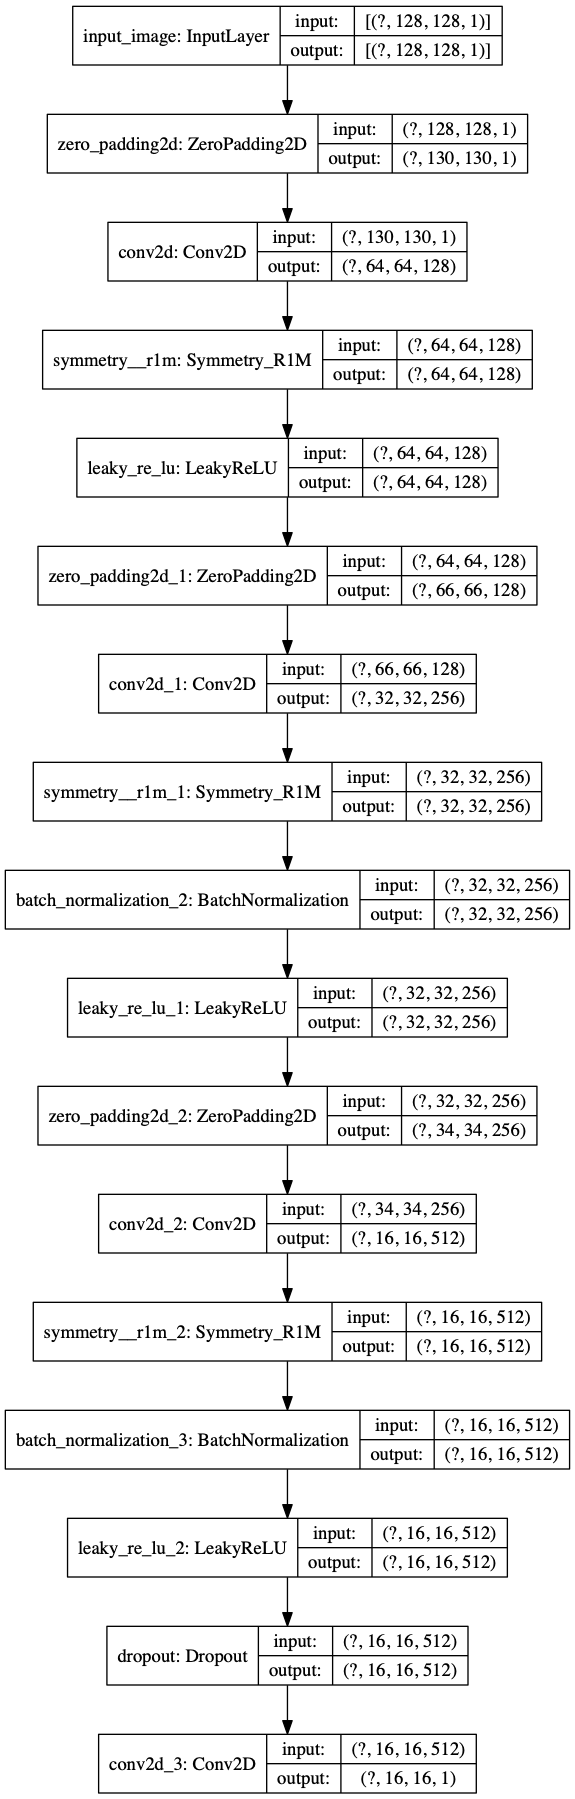
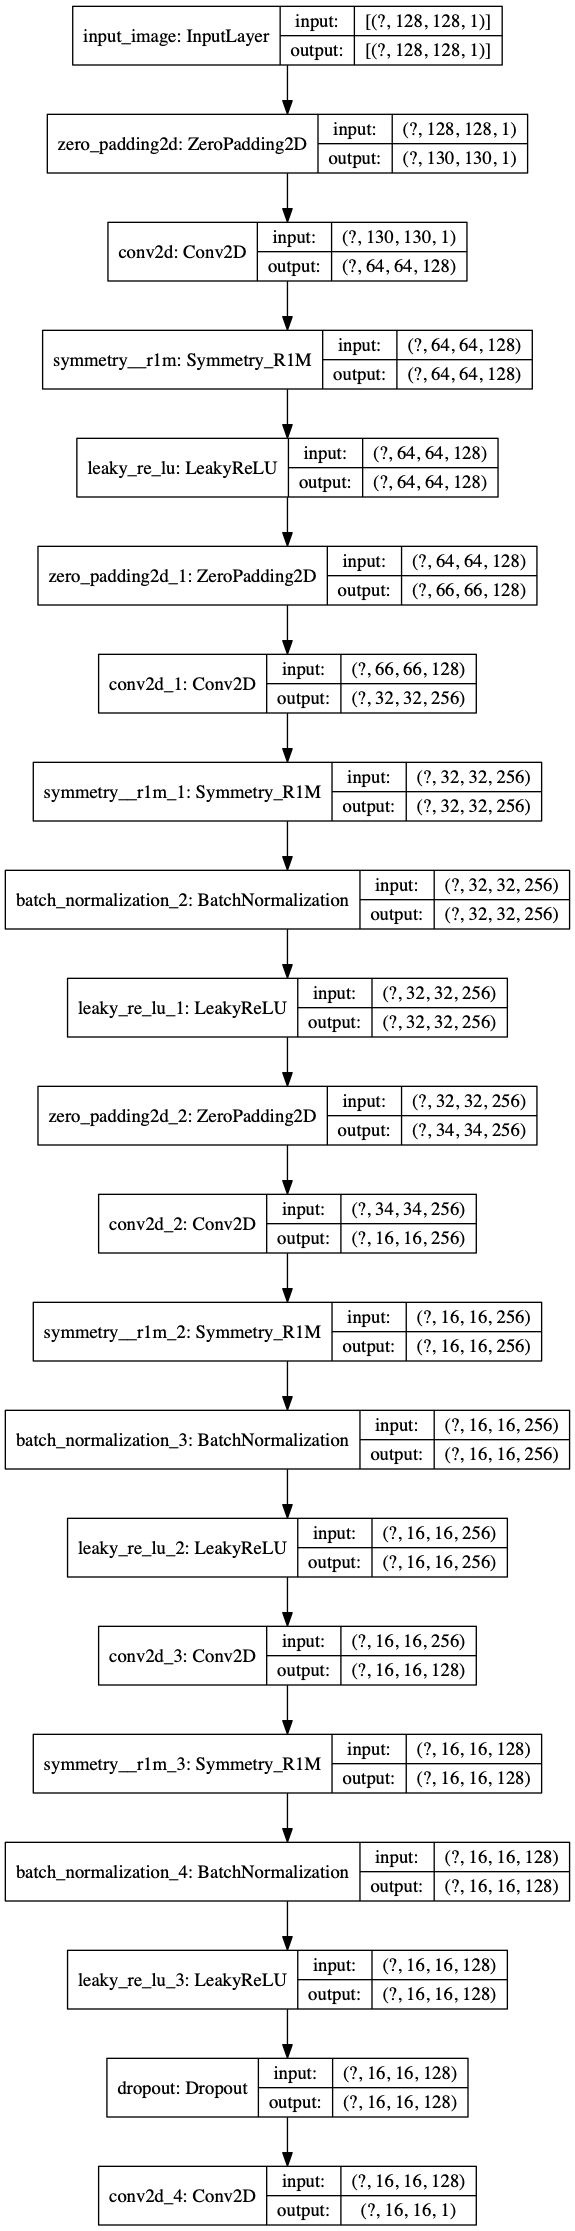
update epoch

Changed region(s): [[0.0, 0.0, 1.0, 1.0]]

diff --git a/model.py b/model.py
@@ -302,17 +302,18 @@ def make_discriminator_model(len_low_size=16, scale=4):
     batchnorm = tf.keras.layers.BatchNormalization()(sym)
     leaky_relu = tf.keras.layers.LeakyReLU(0.2)(batchnorm)
 
-    '''zero_pad = tf.keras.layers.ZeroPadding2D()(leaky_relu)
-    conv = tf.keras.layers.Conv2D(256, 4, strides=2, padding='valid', use_bias=False)(zero_pad)
-    batchnorm = tf.keras.layers.BatchNormalization()(conv)
-    leaky_relu = tf.keras.layers.LeakyReLU(0.2)(batchnorm)'''
-
     zero_pad = tf.keras.layers.ZeroPadding2D()(leaky_relu)
-    conv = tf.keras.layers.Conv2D(512, 4, strides=2, padding='valid', use_bias=False)(zero_pad)
+    conv = tf.keras.layers.Conv2D(256, 4, strides=2, padding='valid', use_bias=False)(zero_pad)
     sym = Symmetry_R1M()(conv)
     batchnorm = tf.keras.layers.BatchNormalization()(sym)
     leaky_relu = tf.keras.layers.LeakyReLU(0.2)(batchnorm)
-    leaky_relu = tf.keras.layers.Dropout(0.2)(leaky_relu)
+
+    #zero_pad = tf.keras.layers.ZeroPadding2D()(leaky_relu)
+    conv = tf.keras.layers.Conv2D(128, 3, strides=1, padding='same', use_bias=False)(leaky_relu)
+    sym = Symmetry_R1M()(conv)
+    batchnorm = tf.keras.layers.BatchNormalization()(sym)
+    leaky_relu = tf.keras.layers.LeakyReLU(0.2)(batchnorm)
+    leaky_relu = tf.keras.layers.Dropout(0.1)(leaky_relu)
 
     last = tf.keras.layers.Conv2D(1, 1, strides=1, padding='valid', use_bias=False, activation='sigmoid')(leaky_relu)
     #last = tf.keras.layers.Flatten()(last)
@@ -436,7 +437,7 @@ def train_step_generator(Gen, Dis, imgl, imgr, loss_filter, loss_weights, opts, 
         train_logs[1](gen_loss_low_mse)
         #if(epoch_flag):
         #disc_generated_output = Dis([img_l_h, fake_hic_h], training=False)
-        disc_generated_output = Dis(tf.math.log1p(100*fake_hic_h), training=False)
+        disc_generated_output = Dis(tf.math.log1p(1000*fake_hic_h), training=False)
         gen_high_v = []
         gen_high_v += Gen.get_layer('rec_high').trainable_variables
         gen_high_v += Gen.get_layer('conv1_1').trainable_variables
@@ -453,7 +454,7 @@ def train_step_generator(Gen, Dis, imgl, imgr, loss_filter, loss_weights, opts, 
         gen_high_v += Gen.get_layer('out_high').trainable_variables
         gen_loss_high_0 = generator_bce_loss(disc_generated_output) 
         gen_loss_high_1 = generator_mse_loss(fake_hic_h, imgr_filter)
-        gen_loss_high_2 = generator_ssim_loss(tf.math.log1p(100*fake_hic_h), tf.math.log1p(100*imgr_filter))
+        gen_loss_high_2 = generator_ssim_loss(tf.math.log1p(1000*fake_hic_h), tf.math.log1p(1000*imgr_filter))
         #gen_loss_high_2 = generator_ssim_loss(fake_hic_h, imgr_filter)
         gen_loss_high = gen_loss_high_0*loss_weights[0]+ gen_loss_high_1*loss_weights[1] + gen_loss_high_2*loss_weights[2]
         gradients_of_generator_high = gen_tape_high.gradient(gen_loss_high, gen_high_v)
@@ -473,9 +474,9 @@ def train_step_discriminator(Gen, Dis, imgl, imgr, loss_filter, opts, train_logs
         mfilter_high = tf.expand_dims(loss_filter[1], axis=0)
         mfilter_high = tf.expand_dims(mfilter_high, axis=-1)
         mfilter_high = tf.cast(mfilter_high, tf.float32)
-        fake_hic_h = tf.math.log1p(100*tf.multiply(fake_hic_h, mfilter_high))
+        fake_hic_h = tf.math.log1p(1000*tf.multiply(fake_hic_h, mfilter_high))
         #img_l_h = tf.multiply(img_l_h, mfilter_high)
-        imgr_filter = tf.math.log1p(100*tf.multiply(imgr, mfilter_high))
+        imgr_filter = tf.math.log1p(1000*tf.multiply(imgr, mfilter_high))
         #disc_generated_output = Dis([img_l_h, fake_hic_h], training=True)
         #disc_real_output = Dis([img_l_h, imgr_filter], training=True)
         disc_generated_output = Dis(fake_hic_h, training=True)
@@ -548,7 +549,7 @@ def train(gen, dis, dataset, epochs, len_low_size, scale, test_dataset=None):
             if(epoch<=2000):
                 loss_weights = [0.0, 10.0, 10.0]
             else:
-                loss_weights = [0.10, 10.0, 10.0]
+                loss_weights = [10.0, 10.0, 0.0]
 
             #if(epoch<450 or (epoch>=1050 and epoch%150<40)):
             if(epoch<1000 or epoch>=2000):
@@ -557,7 +558,7 @@ def train(gen, dis, dataset, epochs, len_low_size, scale, test_dataset=None):
                                     [loss_filter_low, loss_filter_high], loss_weights,
                                     opts, logs)
             #if(epoch%150>=40 or (epoch>=450 and epoch<1050)):
-            if(epoch>=1000):
+            if(epoch>=0):
                 train_step_discriminator(gen, dis, 
                                 tf.dtypes.cast(low_m, tf.float32), tf.dtypes.cast(high_m, tf.float32),
                                 [loss_filter_low, loss_filter_high],
@@ -575,12 +576,12 @@ def train(gen, dis, dataset, epochs, len_low_size, scale, test_dataset=None):
             tf.summary.scalar('loss_gen_high_disssim', generator_log_ssim_high.result(), step=epoch)
             tf.summary.scalar('loss_gen_high_bce', generator_log_bce_high.result(), step=epoch)
             mpy = demo_pred_low.numpy()
-            m = np.log1p(100*np.squeeze(mpy[:,:,:,0]))
+            m = np.log1p(1000*np.squeeze(mpy[:,:,:,0]))
             fig = plot_matrix(m)
             image = plot_to_image(fig)
             tf.summary.image(name='gen_low', data=image ,step=epoch)
             mpy = demo_pred_high.numpy()
-            m = np.log1p(100*np.squeeze(mpy[:,:,:,0]))
+            m = np.log1p(1000*np.squeeze(mpy[:,:,:,0]))
             fig = plot_matrix(m)
             image = plot_to_image(fig)
             tf.summary.image(name='gen_high', data=image, step=epoch)
